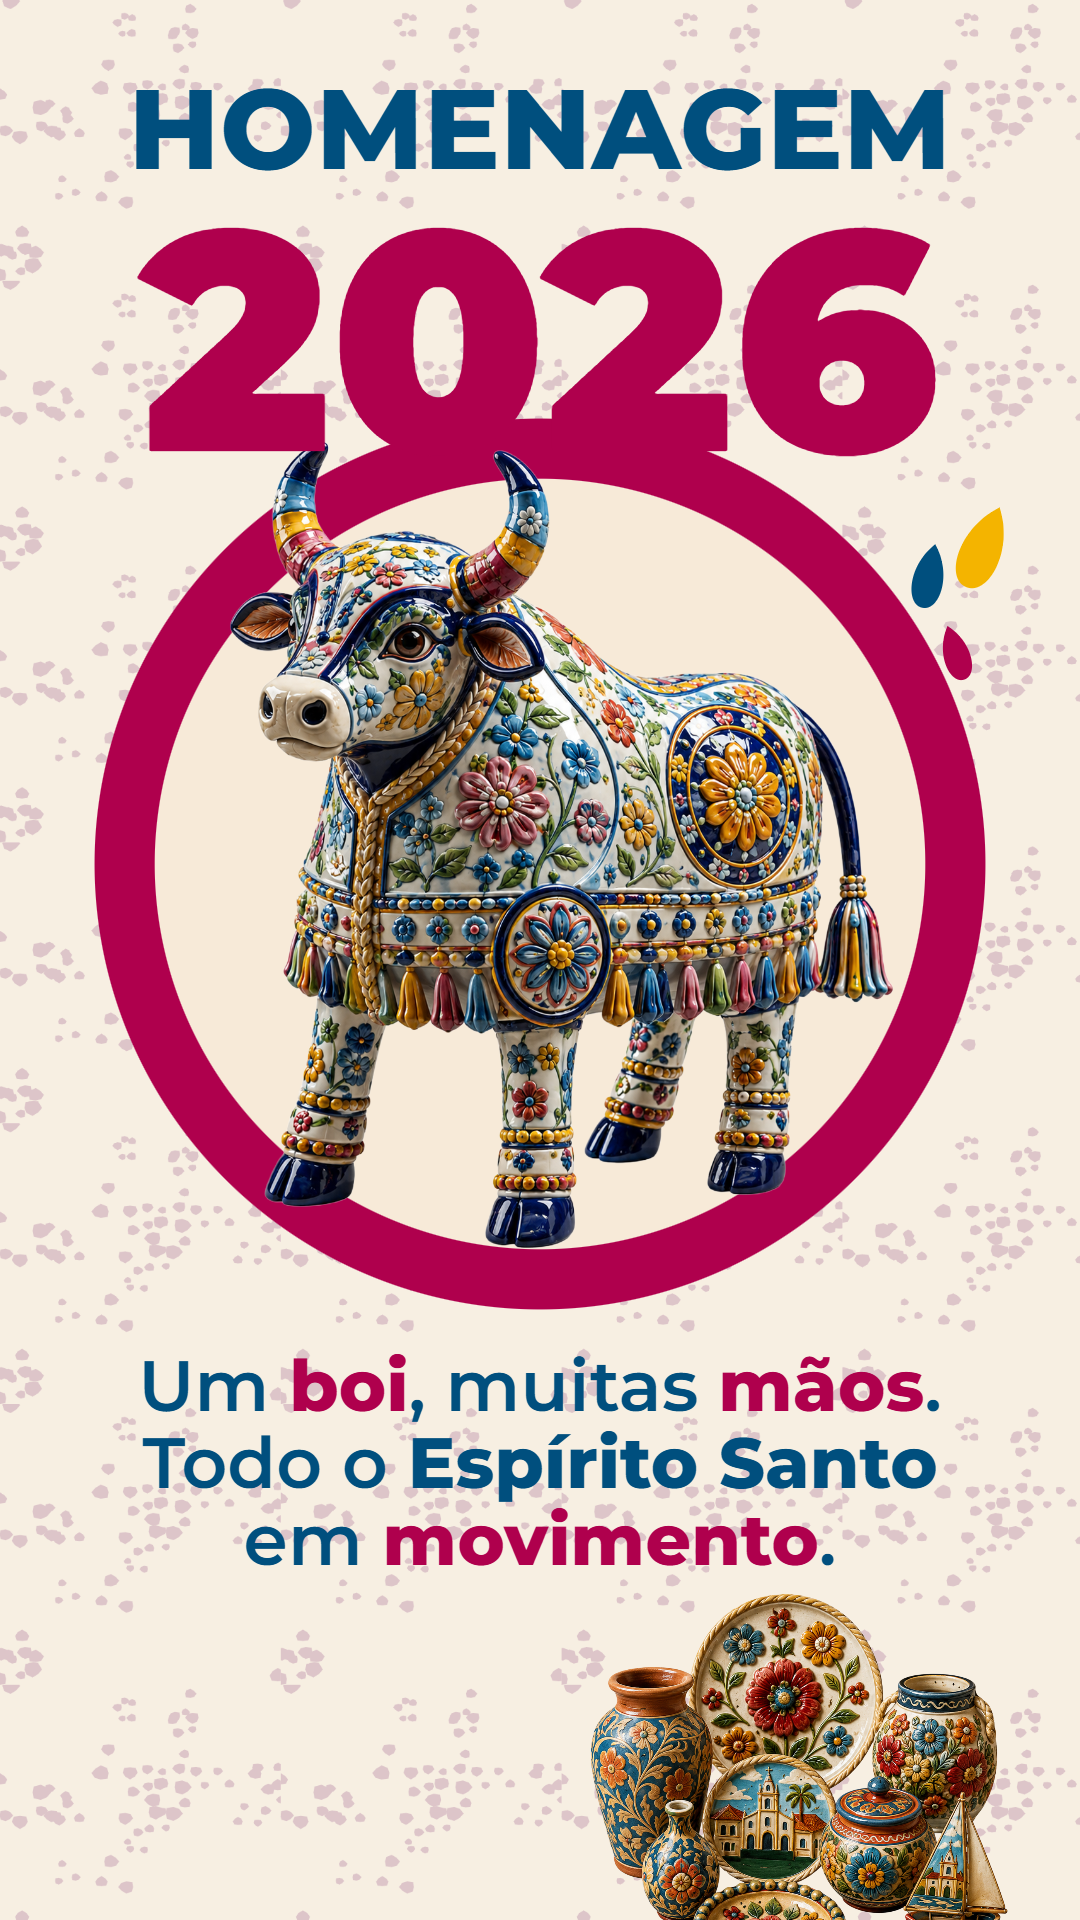
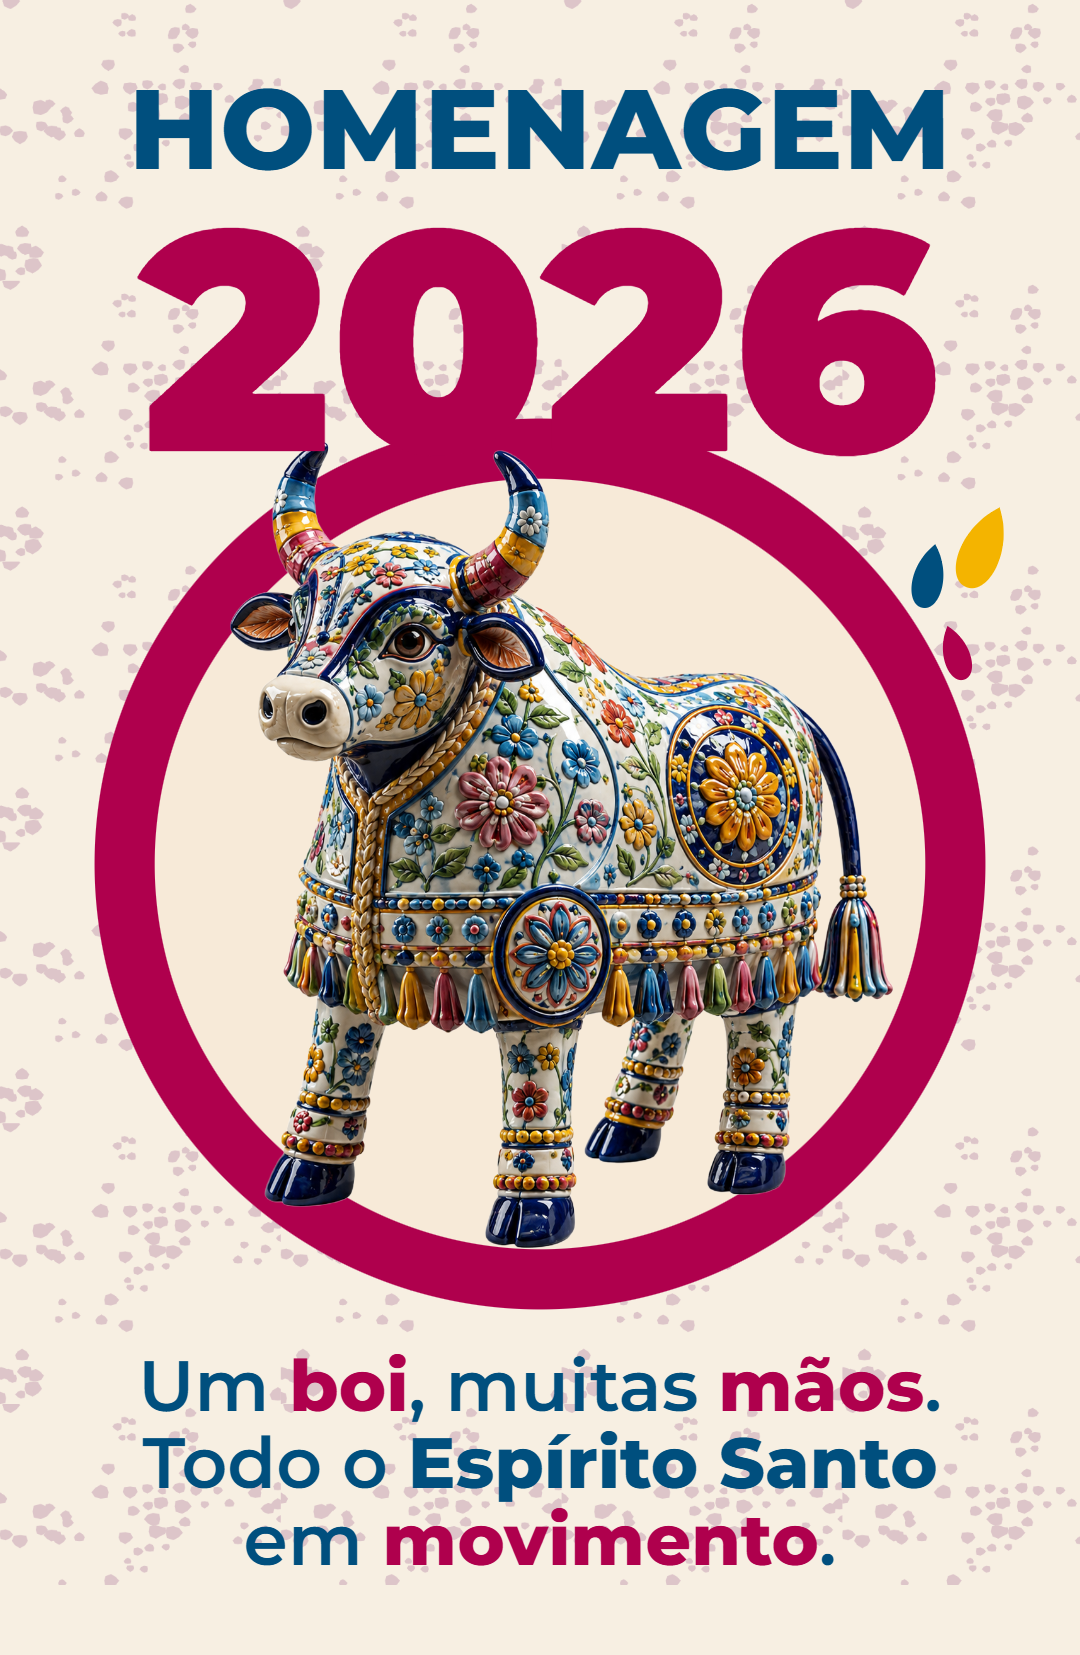
mudanças

diff --git a/index.html b/index.html
@@ -268,12 +268,12 @@
       position: relative
     }
 
-    .ei-strip {
+    /* .ei-strip {
       height: 20px;
       width: 100%;
       background: url('img/intro-strip.png') center/cover;
       box-shadow: inset 0 -1px 0 rgba(58, 16, 32, .10)
-    }
+    } */
 
     .ei-grid {
       display: grid;
@@ -1251,7 +1251,7 @@
 
     @media (max-width:720px) {
       .wrap {
-        padding: 0 20px
+        padding: 30px 20px
       }
 
       .menu {
@@ -1267,7 +1267,7 @@
       }
 
       .band {
-        padding: 66px 0
+        padding: 0
       }
 
       .pilares,
@@ -1301,6 +1301,10 @@
       .hom-media img {
         animation: none
       }
+    }
+
+    .hide {
+      display: none;
     }
 
     /* fundos com cores sólidas (textura de papel removida) */
@@ -1350,7 +1354,7 @@
 
   <!-- ============ EVENTO INTRO (logo + paragrafo) ============ -->
   <section class="evento-intro">
-    <div class="ei-strip"></div>
+    <!-- <div class="ei-strip"></div> -->
     <div class="wrap ei-grid">
       <div class="ei-logo"><img src="img/logo-stack.png" alt="ArteSanto" /></div>
       <div class="ei-text">
@@ -1408,7 +1412,7 @@
           </div>
         </div>
         <div class="pilar c4 reveal d4">
-          <div class="pic"><img src="img/feira.jpg" alt="Experiência para o público" /></div>
+          <div class="pic"><img src="img/experiencia.png" alt="Experiência para o público" /></div>
           <div class="stripe"></div>
           <div class="b">
             <h3>Experiência</h3>
@@ -1450,7 +1454,7 @@
   </svg>
 
   <!-- ============ EXPOSITORES ============ -->
-  <section class="band cream" id="expositores">
+  <section class="band cream hide" id="expositores">
     <div class="wrap">
       <div class="expo-head reveal">
         <div class="section-eyebrow"><span class="pin"></span>Expositores</div>
@@ -1586,9 +1590,7 @@
       <div class="map-card reveal d1">
         <iframe
           src="https://www.google.com/maps?q=Pra%C3%A7a%20do%20Papa,%20Enseada%20do%20Su%C3%A1,%20Vit%C3%B3ria%20-%20ES&output=embed"
-          title="Mapa da Praça do Papa, Vitória/ES"
-          loading="lazy"
-          referrerpolicy="no-referrer-when-downgrade"
+          title="Mapa da Praça do Papa, Vitória/ES" loading="lazy" referrerpolicy="no-referrer-when-downgrade"
           allowfullscreen></iframe>
       </div>
     </div>